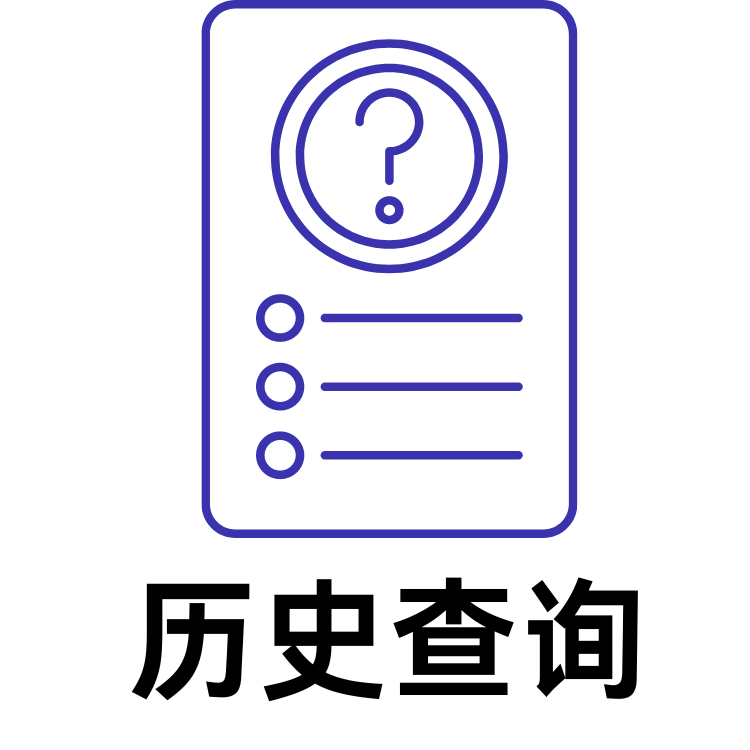
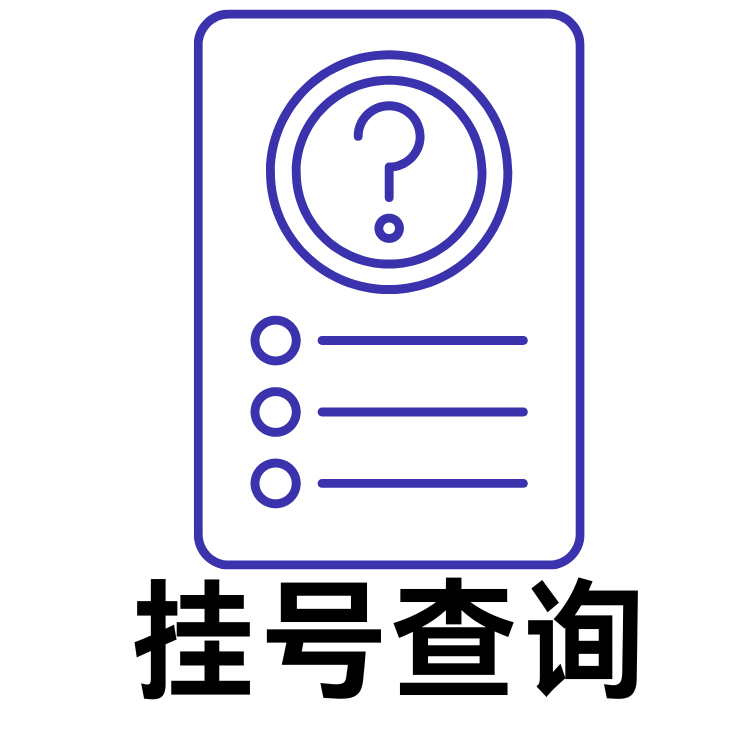
zjq

Changed region(s): [[0.184, 0.0, 0.7973, 0.9507]]

diff --git a/猫猫就诊/Project/frontend/src/components/Navigation/HeaderNavigation.vue b/猫猫就诊/Project/frontend/src/components/Navigation/HeaderNavigation.vue
@@ -24,8 +24,8 @@
           <img class="Surround-image" src="../../assets/navigation/list1_bg.png" alt="Surround Image 2">
         </RouterLink>
         <RouterLink to="/PatientA" class="image-link" @mouseover="showSurroundImage(3)" @mouseleave="hideSurroundImage()">
-          <img class="designed-icon" src="../../assets/navigation/list1.2.png" alt="Image 2">
-          <img class="Surround-image" src="../../assets/navigation/list1_bg.png" alt="Surround Image 2">
+          <img class="designed-icon" src="../../assets/navigation/list1.5.png" alt="Image 5">
+          <img class="Surround-image" src="../../assets/navigation/list1_bg.png" alt="Surround Image 5">
         </RouterLink>
         <RouterLink to="/Prescription" class="image-link" @mouseover="showSurroundImage(4)"
           @mouseleave="hideSurroundImage()">

diff --git a/猫猫就诊/Project/frontend/src/App.vue b/猫猫就诊/Project/frontend/src/App.vue
@@ -2,12 +2,12 @@
 import HeaderNavigation from './components/Navigation/HeaderNavigation.vue';
 import NavBar from './components/Navigation/Navbar.vue'
 import PatientA from './components/History/PatientA.vue';
+import PresA from './components/History/PresA.vue';
 </script>
 
 <template>
   <div id="app">
     <HeaderNavigation></HeaderNavigation>
-    <NavBar></NavBar>
   </div>
 </template>
 
